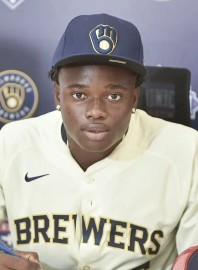
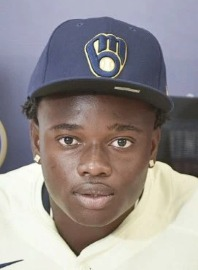
Tighter crop on Ricki Moneys headshot

diff --git a/index.html b/index.html
@@ -369,7 +369,7 @@
       </a>
       <a class="report reveal" href="reports/2026-ricki-moneys.html">
         <span class="report-sport">Baseball</span>
-        <img class="report-photo" src="images/report-ricki-moneys.jpg?v=2" alt="Ricki Moneys" onerror="this.remove()">
+        <img class="report-photo" src="images/report-ricki-moneys.jpg?v=3" alt="Ricki Moneys" onerror="this.remove()">
         <span class="report-name">Ricki Moneys<small>SS / 3B · Milwaukee Brewers</small></span>
         <span class="ofp-meter" data-ofp="55" aria-label="Overall future potential 55 on the 20 to 80 scouting scale">
           <span class="ofp-top"><span class="ofp-lbl">OFP</span><span class="ofp-num"><b>55</b>/80</span></span>

diff --git a/reports/2026-ricki-moneys.html b/reports/2026-ricki-moneys.html
@@ -116,7 +116,7 @@
   <article class="sheet">
     <header class="sheet-top">
       <div class="who">
-        <img class="headshot" src="../images/report-ricki-moneys.jpg?v=2" alt="Ricki Moneys" onerror="this.remove()">
+        <img class="headshot" src="../images/report-ricki-moneys.jpg?v=3" alt="Ricki Moneys" onerror="this.remove()">
         <div>
         <p class="kind">Pro scouting report · Prospect</p>
         <h1>Ricki Moneys</h1>
